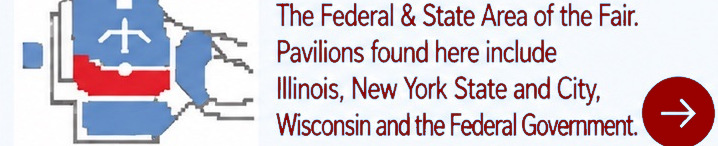
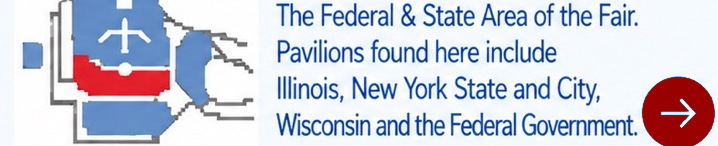
Pavilions hover: swap only the link-symbol colors
Regenerate pavilions hover crops so navy↔burgundy applies to the
circle-arrow only; title and body text colors stay unchanged on hover.

diff --git a/src/components/PavilionsLinks.tsx b/src/components/PavilionsLinks.tsx
@@ -2,7 +2,7 @@ import Image from "next/image";
 import Link from "next/link";
 import styles from "./PavilionsLinks.module.css";
 
-/** Exact user artwork — base unchanged. Hover crops swap burgundy↔navy on text/arrows only; thumbnails untouched. */
+/** Exact user artwork — base unchanged. Hover crops swap navy↔burgundy on the link-symbol circle only; text colors stay put; thumbnails untouched. */
 const TOPICS = [
   {
     id: "attractions-from-a-to-z",

diff --git a/src/components/PavilionsLinks.module.css b/src/components/PavilionsLinks.module.css
@@ -1,4 +1,4 @@
-/* User-provided Pavilions link cards — hover crops swap navy↔burgundy on text/arrows only */
+/* User-provided Pavilions link cards — hover crops swap navy↔burgundy on link symbol only */
 
 .section {
   width: 100%;
